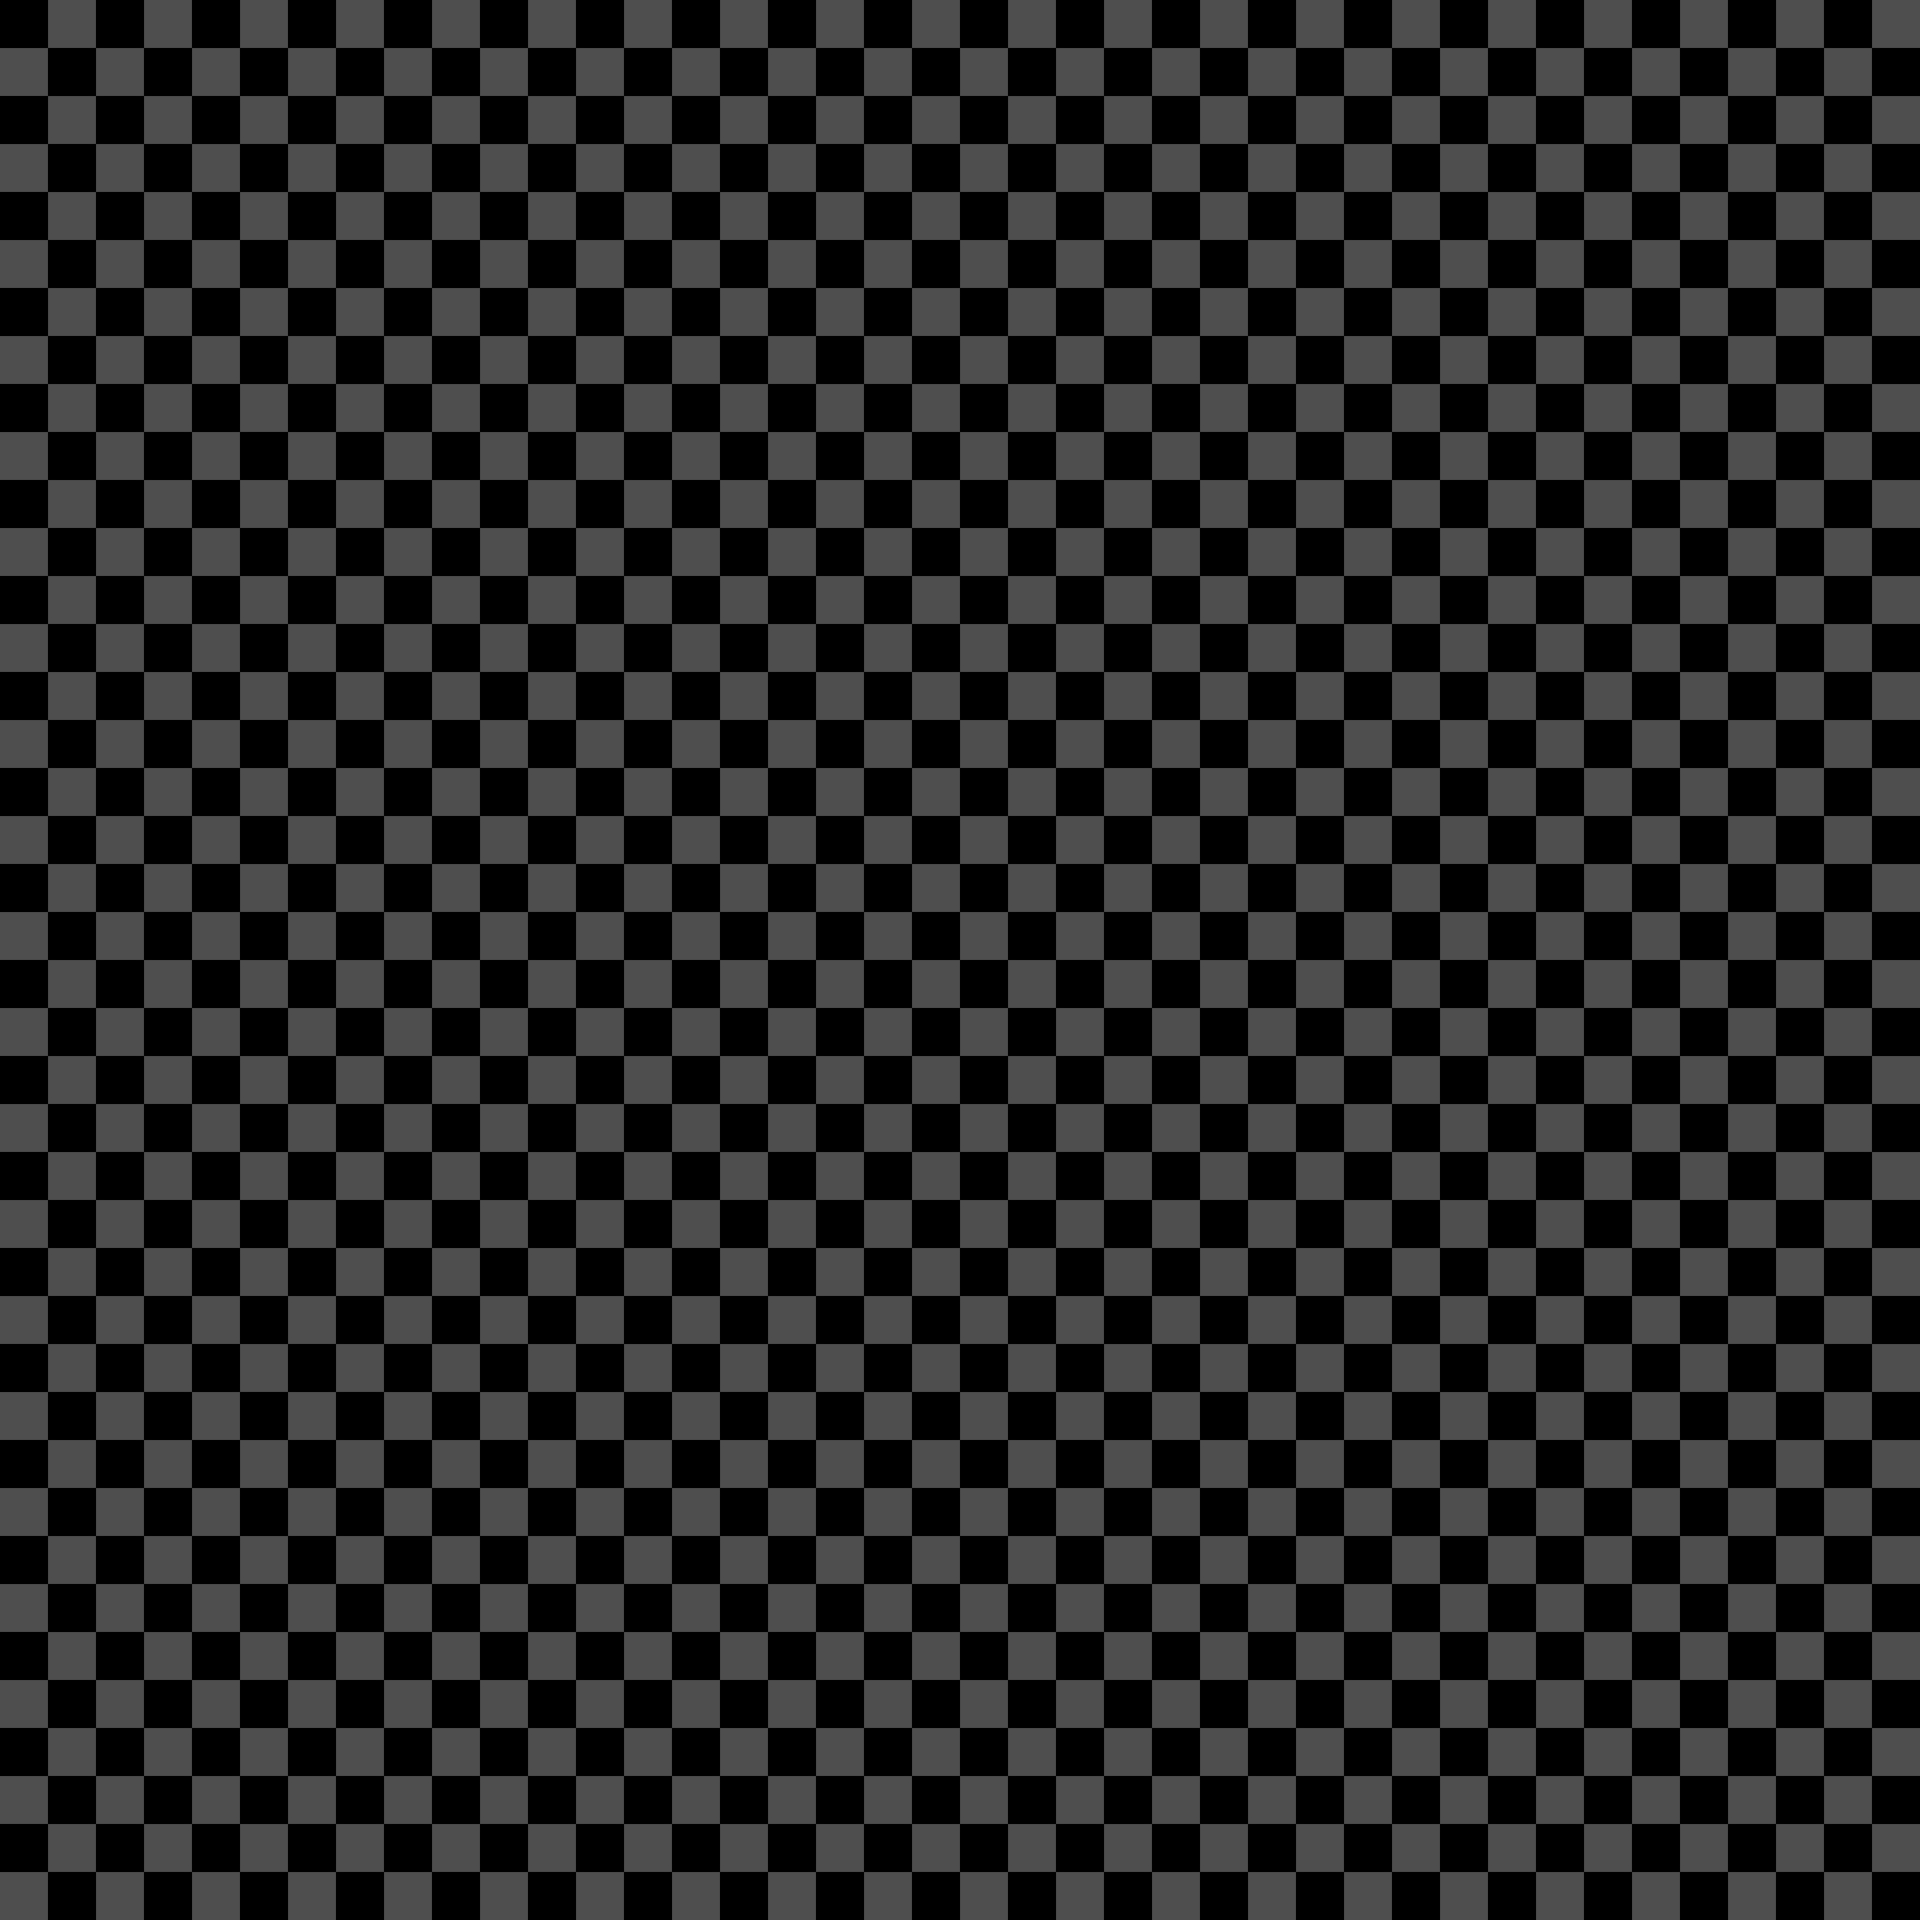
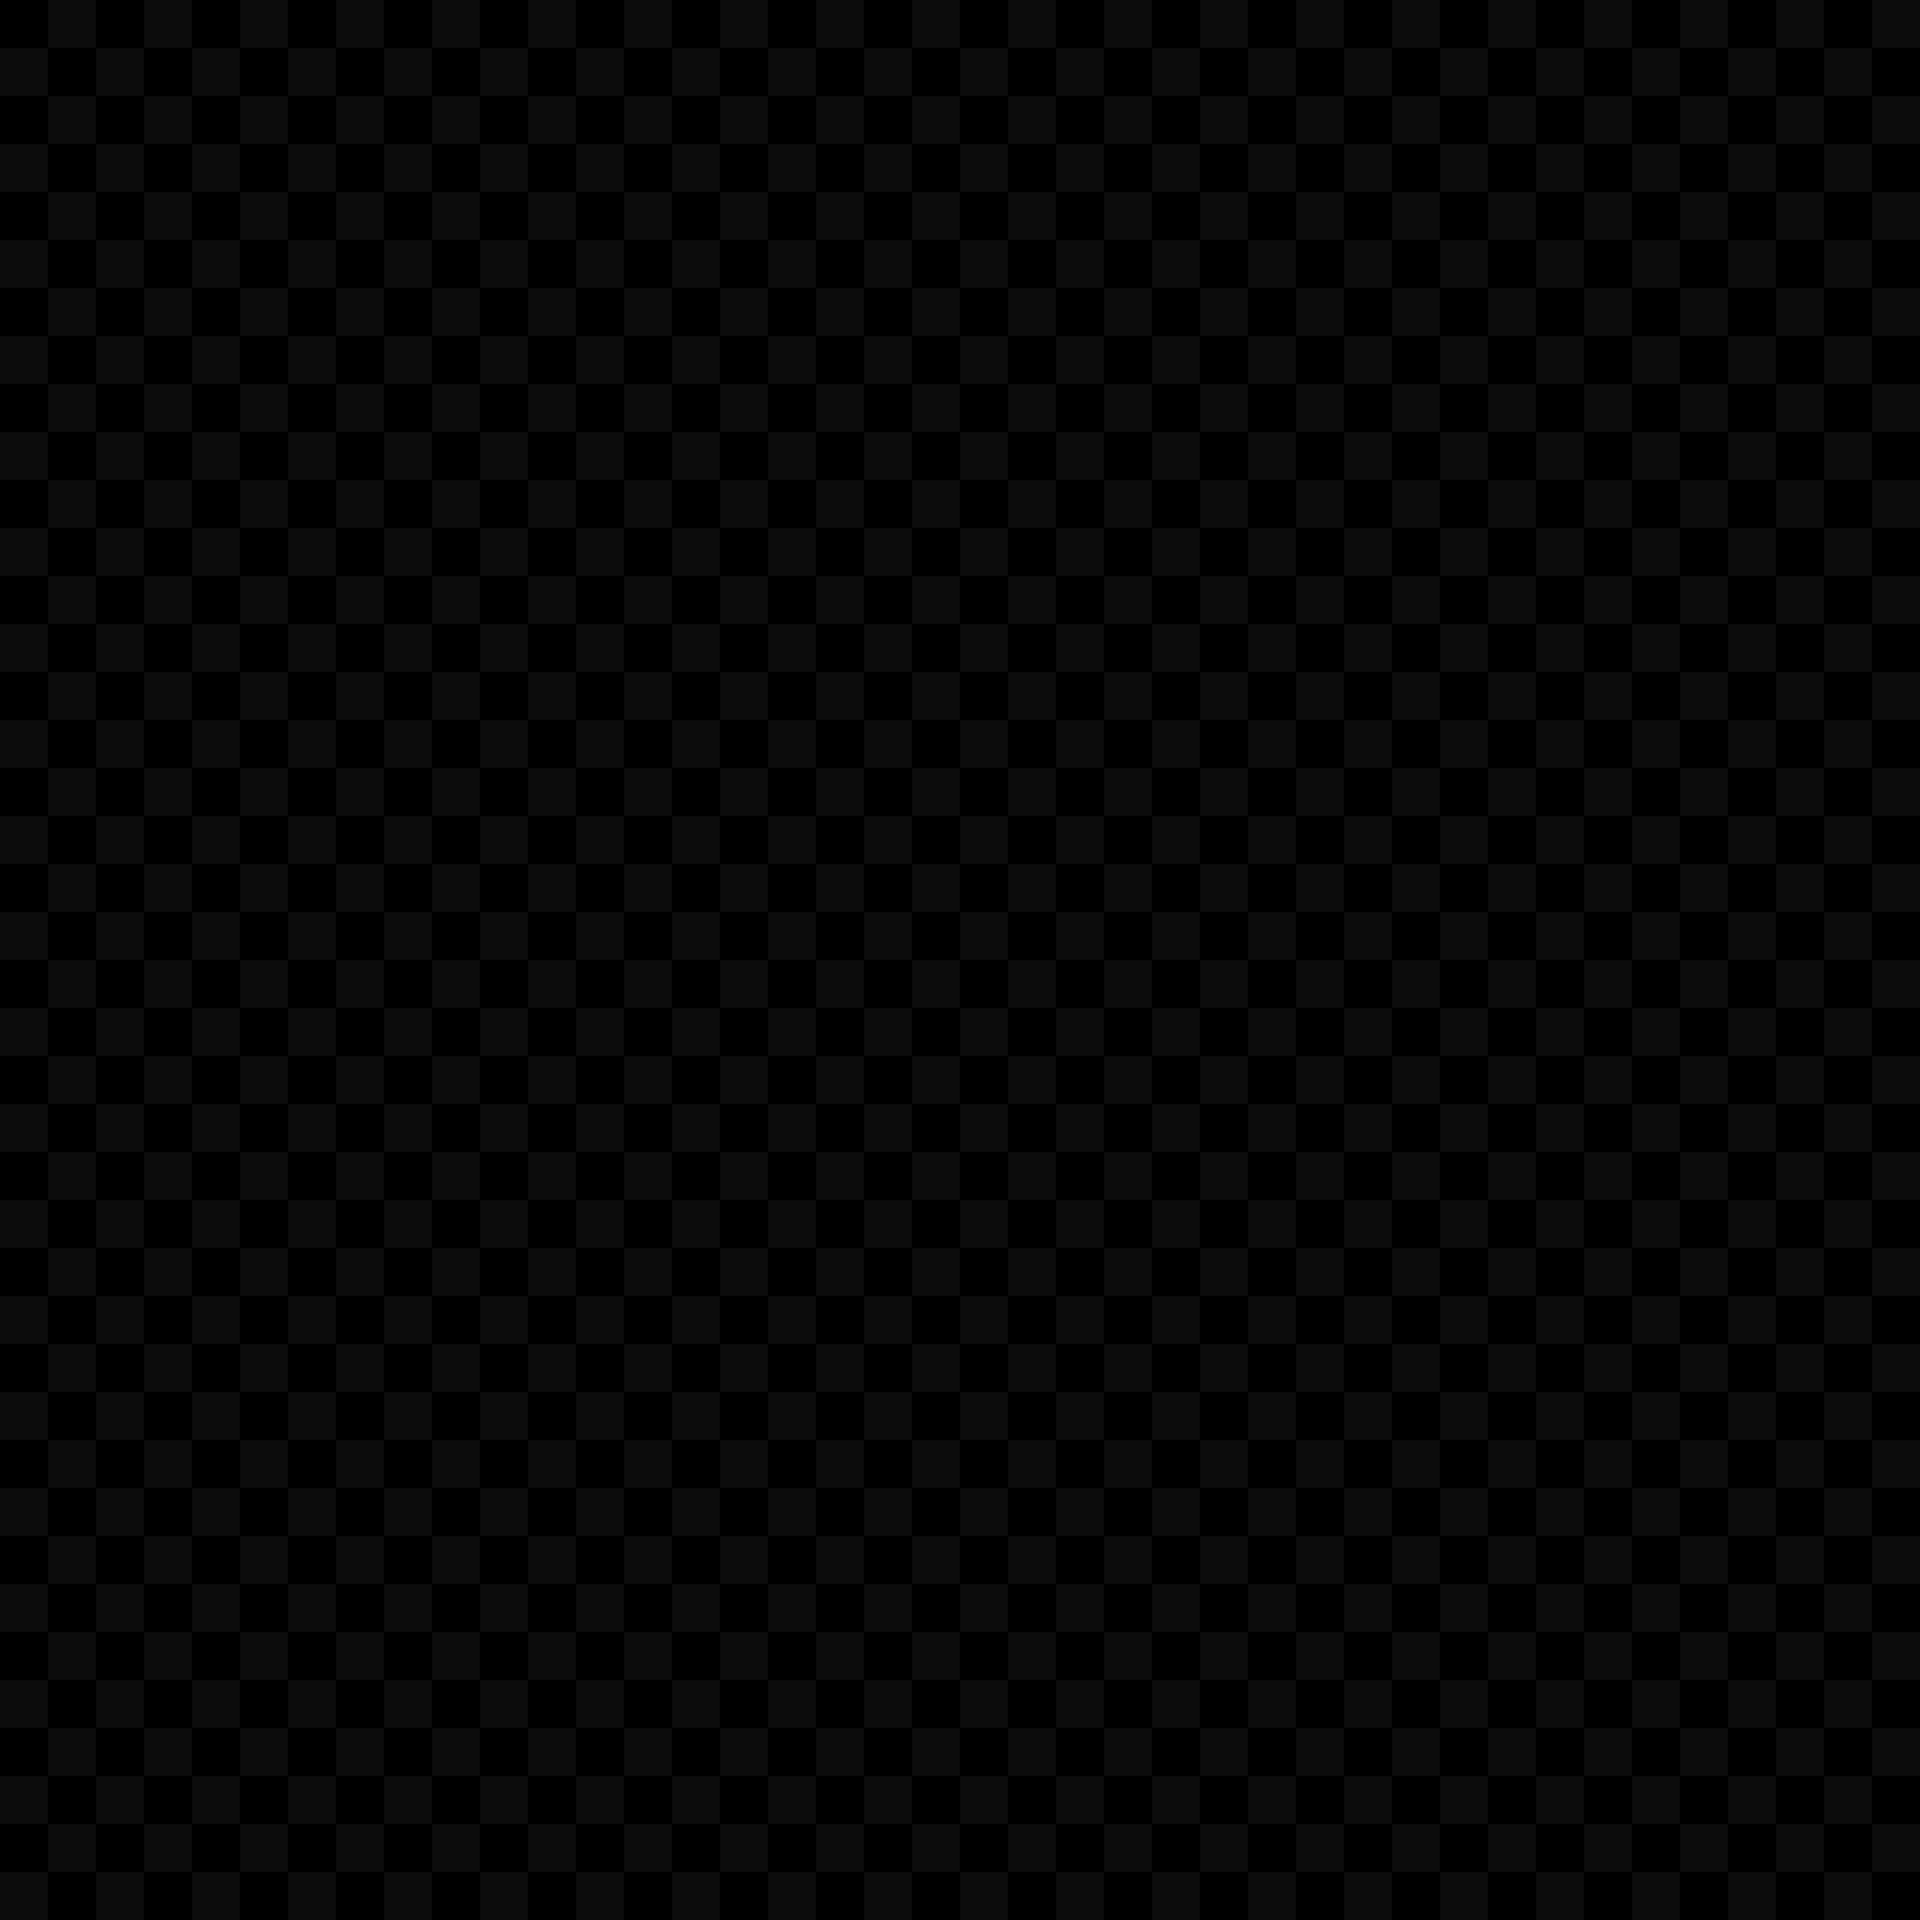
bg rendering

diff --git a/game/src/scenes/ingame_scene/level/loader.rs b/game/src/scenes/ingame_scene/level/loader.rs
@@ -1,9 +1,6 @@
 use raylib::{RaylibHandle, RaylibThread};
 
-use crate::{
-    utilities::datastore::{load_texture_from_internal_data, ResourceLoadError},
-    StaticGameData,
-};
+use crate::{StaticGameData, utilities::{datastore::{load_texture_from_internal_data, ResourceLoadError}, world_paint_texture::WorldPaintTexture}};
 
 use super::Level;
 
@@ -26,13 +23,15 @@ pub fn load_all_levels(
     let mut levels = Vec::new();
 
     for level_name in &level_names {
+
+
         levels.push(Level {
             name: level_name.to_string(),
-            background_tex: load_texture_from_internal_data(
+            background_tex: WorldPaintTexture::new(load_texture_from_internal_data(
                 raylib_handle,
                 thread,
                 &format!("levels/{}/background.png", level_name),
-            )?,
+            )?),
             platform_tex: load_texture_from_internal_data(
                 raylib_handle,
                 thread,

diff --git a/game/src/scenes/ingame_scene/world.rs b/game/src/scenes/ingame_scene/world.rs
@@ -22,7 +22,7 @@ impl WorldSpaceRender for InGameScreen {
         let cur_level = self.levels.get(self.current_level_idx).unwrap();
 
         // Render the world background
-        // self.world_background.render(raylib, Vector2::new(0.0, -1080.0), &self.camera);
+        cur_level.background_tex.render(raylib, Vector2::new(0.0, -1080.0), &self.camera);
 
         // Render the platform layer
         raylib.draw_texture_v(

diff --git a/game/src/scenes/ingame_scene/level/mod.rs b/game/src/scenes/ingame_scene/level/mod.rs
@@ -1,11 +1,13 @@
 use raylib::{math::Rectangle, texture::Texture2D};
 
+use crate::utilities::world_paint_texture::WorldPaintTexture;
+
 pub mod loader;
 
 #[derive(Debug)]
 pub struct Level {
     pub name: String,
-    pub background_tex: Texture2D,
+    pub background_tex: WorldPaintTexture,
     pub platform_tex: Texture2D,
     pub colliders: Vec<Rectangle>
 }
